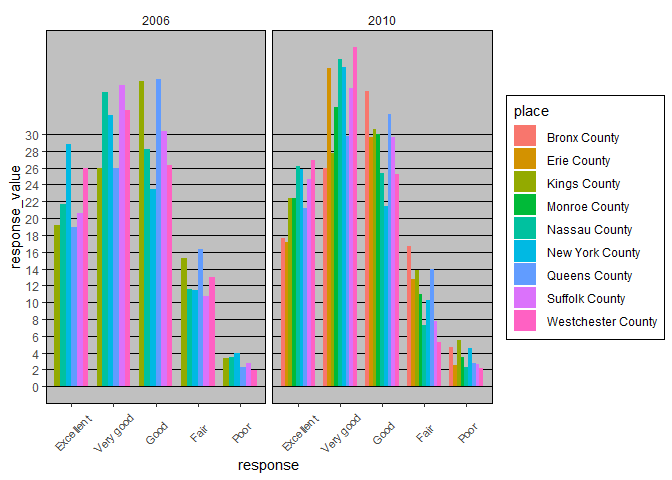
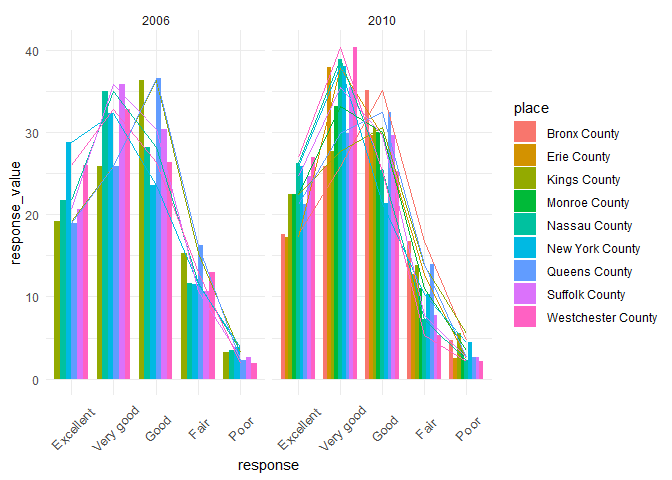
x-axis change

diff --git a/p8105_hw3_gx2144.md b/p8105_hw3_gx2144.md
@@ -295,10 +295,8 @@ NY = brfss_smart2010 %>%
   select(-state)
 ggplot(NY,aes(x = response,y = response_value,fill =place ))+
       geom_bar(stat = "identity" , position = "dodge",width = 0.8)+
-      theme(legend.position = "right")+
-      ggthemes::theme_excel()+
-      scale_y_continuous(breaks = seq(0,30,2))+
-      theme(axis.text.x = element_text(size = 8, vjust = 0.5, hjust = 0.5, angle = 45))+
+      geom_line(aes(group = place , color = place))+
+      theme(axis.text.x = element_text(size = 10, vjust = 0.5, hjust = 0.5, angle = 45))+
       facet_grid(. ~ year)
 ```
 
